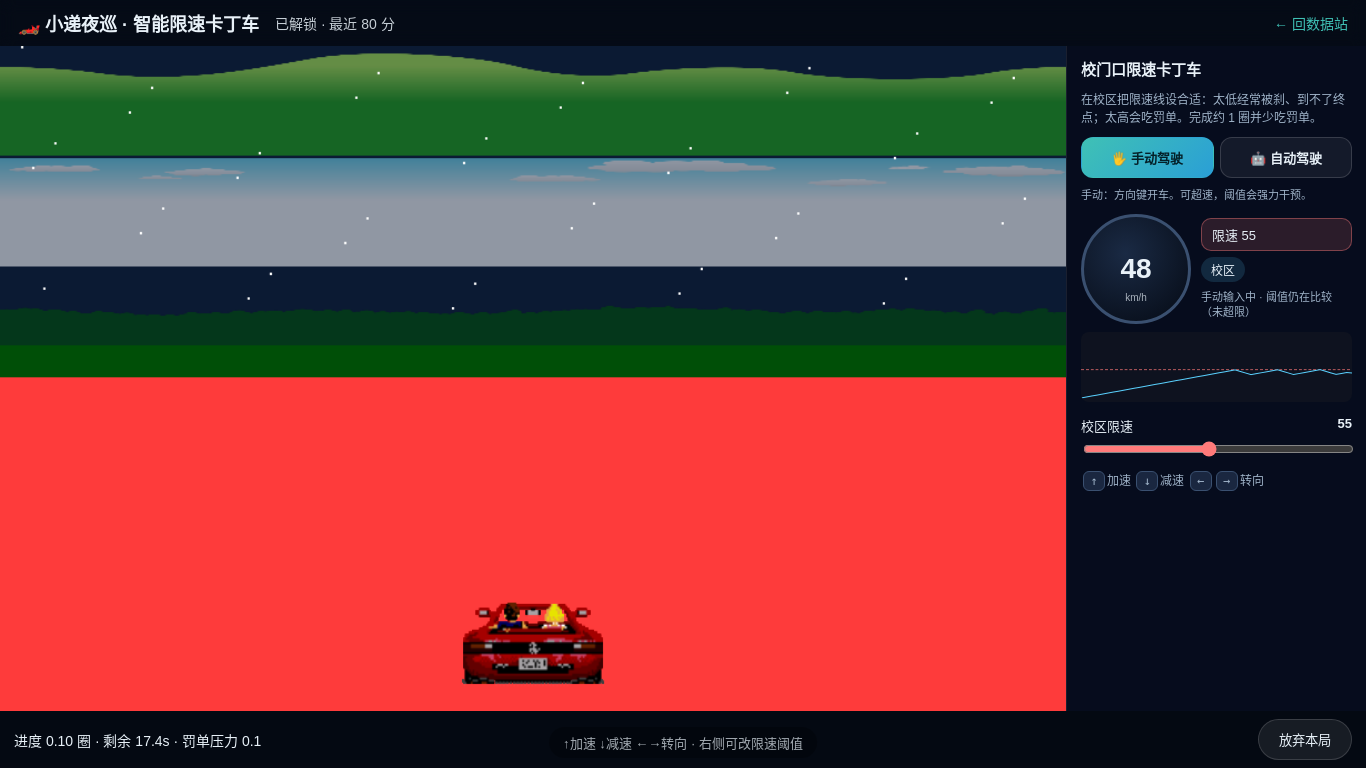
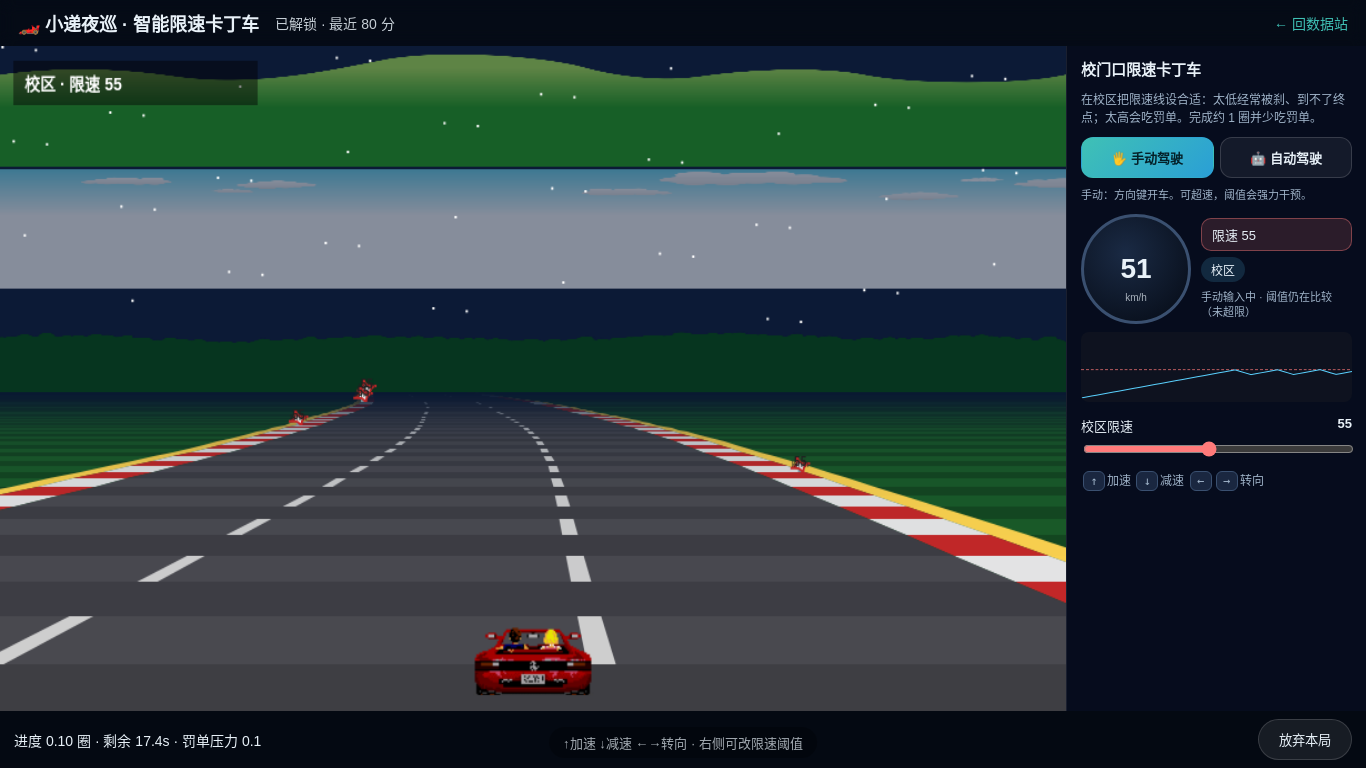
Fix pseudo-3D road: gray asphalt, curves, zone visuals

diff --git a/public/game/race-core.js b/public/game/race-core.js
@@ -95,13 +95,29 @@
 
   function buildTrack(L, seed) {
     const R = rng(seed * 9973 + L.n * 131), segs = [];
-    const n = 200;
+    const n = 240;
+    const bends = [];
+    let t = 10;
+    while (t < n - 20) {
+      const len = 12 + Math.floor(R() * 18);
+      const dir = R() < 0.5 ? -1 : 1;
+      const strength = (L.id === 'rain' ? 3.2 : 2.2) * (0.6 + R() * 0.8);
+      bends.push({ from: t, to: Math.min(n - 5, t + len), curve: dir * strength });
+      t += len + 8 + Math.floor(R() * 20);
+    }
     for (let i = 0; i < n; i++) {
       const p = i / n;
       let curve = 0;
-      if (R() < 0.35) curve = (R() - 0.5) * 4;
-      if (L.id === 'rain' && p > 0.3 && p < 0.7) curve *= 1.4;
-      segs.push({ curve, y: Math.sin(p * Math.PI * 2) * (L.id === 'sample' ? 0 : 8) });
+      for (const b of bends) {
+        if (i >= b.from && i < b.from + 4) curve = b.curve * ((i - b.from) / 4);
+        else if (i >= b.to - 4 && i < b.to) curve = b.curve * ((b.to - i) / 4);
+        else if (i >= b.from && i < b.to) curve = b.curve;
+      }
+      const yAmp = L.id === 'sample' ? 0 : (L.id === 'rain' ? 12 : 8);
+      const y = Math.sin(p * Math.PI * 2) * yAmp + Math.sin(p * Math.PI * 5) * (yAmp * 0.25);
+      let zoneId = L.zones[L.zones.length - 1].id, zoneLabel = L.zones[L.zones.length - 1].label;
+      for (const z of L.zones) if (p >= z.from && p < z.to) { zoneId = z.id; zoneLabel = z.label; break; }
+      segs.push({ curve, y, zoneId, zoneLabel });
     }
     return segs;
   }

diff --git a/public/game/index.html b/public/game/index.html
@@ -16,7 +16,7 @@
   <main id="main"></main>
   <p class="g-hint" id="focus-hint">↑加速 ↓减速 ←→转向 · 拖动限速线是阈值</p>
 </div>
-<script src="/game/race-core.js?v=2"></script>
-<script type="module" src="/game/play.mjs?v=2"></script>
+<script src="/game/race-core.js?v=3"></script>
+<script type="module" src="/game/play.mjs?v=3"></script>
 </body>
 </html>

diff --git a/docs/验收记录.md b/docs/验收记录.md
@@ -146,3 +146,8 @@
 - 奖励游戏：替换花园为卡丁车（javascript-racer MIT）；手动/自动驾驶；限速阈值；门禁≥80。
 - 20题：3条学习目标（数据 / 连续量 / 阈值），每次 7+7+6=20；「我发现」对齐三目标。
 - 测试：`npm test` 全过；`tools/game-walkthrough.mjs` 7/7。
+
+## 2026-10-10 赛道视觉修复
+- 原因：伪3D投影把近处 z=0 当成1，路缘红色 rumble 被放大铺满成整块红板。
+- 修复：按 javascript-racer 正确投影；灰沥青+虚线+红白路缘+草；分区主题（校区/高架/隧道/雨夜）；弯道缓入缓出；限速牌显示当前阈值。
+- 截图：docs/screenshots/奖励小游戏/赛道修复/
